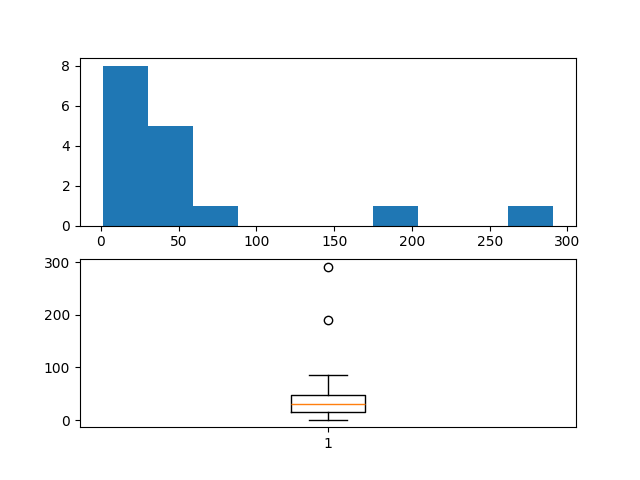
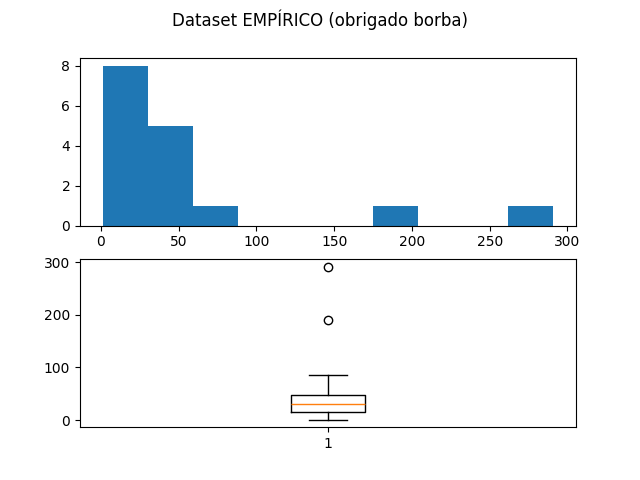
ok

Changed region(s): [[0.25, 0.0, 0.7188, 0.0625]]

diff --git a/automatic.py b/automatic.py
@@ -1,7 +1,7 @@
 from statistics import *
 from matplotlib.pyplot import *
 
-def print_relatorio(arr: list[float], name: str):
+def print_relatorio(arr: list[float], name: str, title: str):
 	print(f"""
 Arr: {arr}
 Max: {arr.index(max(arr))}
@@ -20,6 +20,8 @@ Coeficiente de Variação Amostral: {stdev(arr)/mean(arr)}
 3° quartil: {median(arr[int(len(arr) /2):len(arr)])}
 """)
 	fig, axs = subplots(2)
+	fig.suptitle(title)
+	axs[0].set_yscale("log" if len(arr) > 100 else "linear")
 	axs[0].hist(arr)
 	axs[1].boxplot(arr)
 	savefig(name)
@@ -29,7 +31,7 @@ Coeficiente de Variação Amostral: {stdev(arr)/mean(arr)}
 arr = [291, 10.9, 47, 86, 44, 18.9, 1, 50, 190.4, 45.7, 28.5, 18.9, 16, 34, 8.6, 9.6]
 
 arr.sort()
-print_relatorio(arr, "manual_dataset.png")
+print_relatorio(arr, "manual_dataset.png", "Dataset EMPÍRICO (obrigado borba)")
 
 
 print("===================")
@@ -45,4 +47,4 @@ with open("./Video_Games_Sales_as_at_22_Dec_2016.csv") as csvfile:
 	for i in data:
 		data_arr.append(float(i["EU_Sales"]))
 
-print_relatorio(data_arr, "real_dataset.png")
+print_relatorio(data_arr, "real_dataset.png", "Vendas de jogos em 22 de dezembro de 2016")
